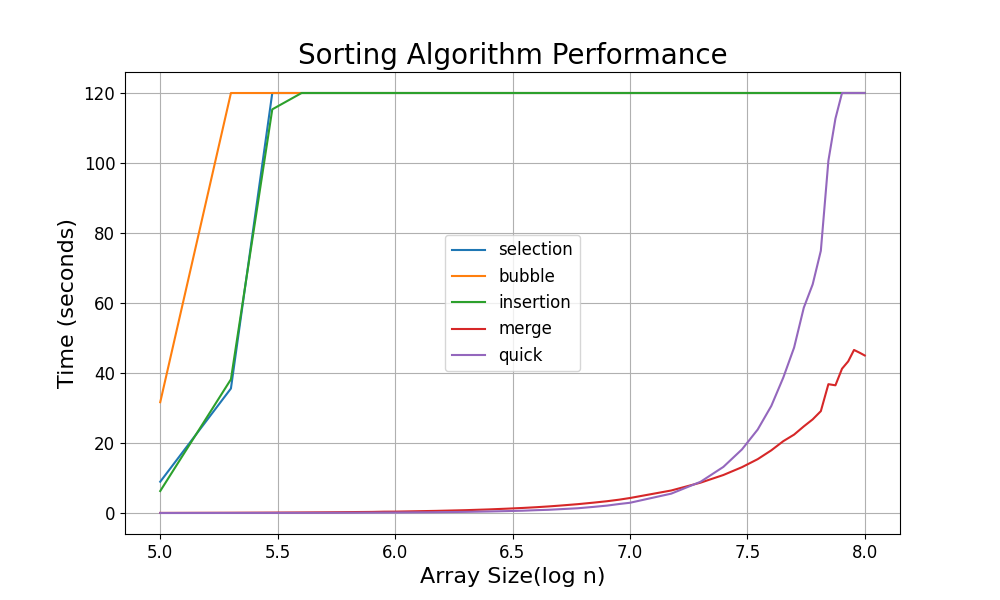
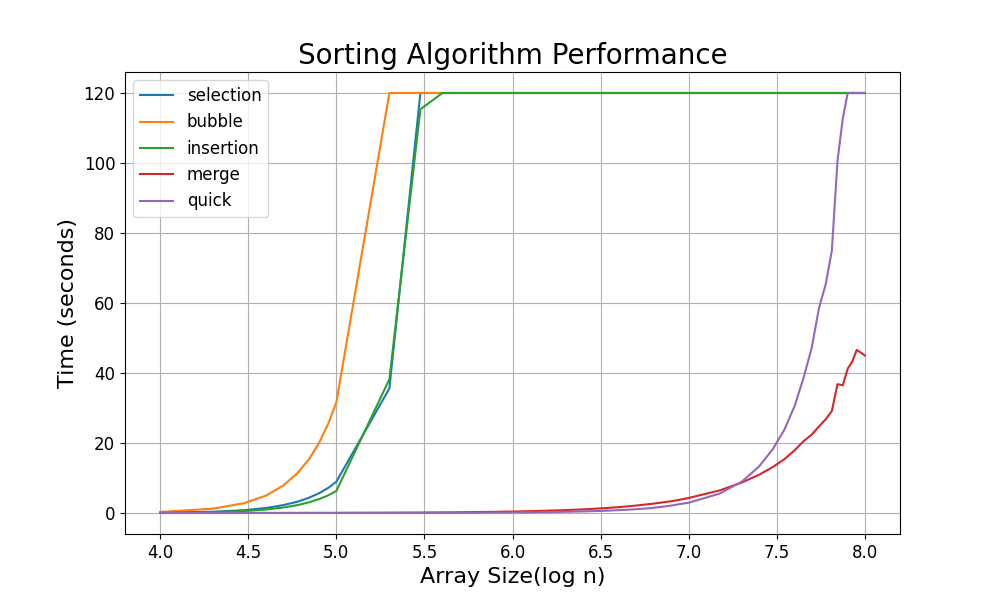
modified benchmark result

diff --git a/lab1/benchmark.py b/lab1/benchmark.py
@@ -12,7 +12,7 @@ cpp_program = "./Algorithms"
 
 algorithms = ["selection", "bubble", "insertion", "merge", "quick"]
 
-sizes = [100000,200000,300000,400000,500000,600000,700000,800000,900000,1000000,1500000,2000000,2500000,3000000,3500000,4000000,4500000,5000000,6000000,7000000,8000000,9000000,10000000,15000000,20000000,25000000,30000000,35000000,40000000,45000000,50000000,55000000,60000000,65000000,70000000,75000000,80000000,85000000,90000000,95000000,100000000]
+sizes = [10000,20000,30000,40000,50000,60000,70000,80000,90000,100000,200000,300000,400000,500000,600000,700000,800000,900000,1000000,1500000,2000000,2500000,3000000,3500000,4000000,4500000,5000000,6000000,7000000,8000000,9000000,10000000,15000000,20000000,25000000,30000000,35000000,40000000,45000000,50000000,55000000,60000000,65000000,70000000,75000000,80000000,85000000,90000000,95000000,100000000]
 
 # 时间上限（秒）
 time_limit = 120
